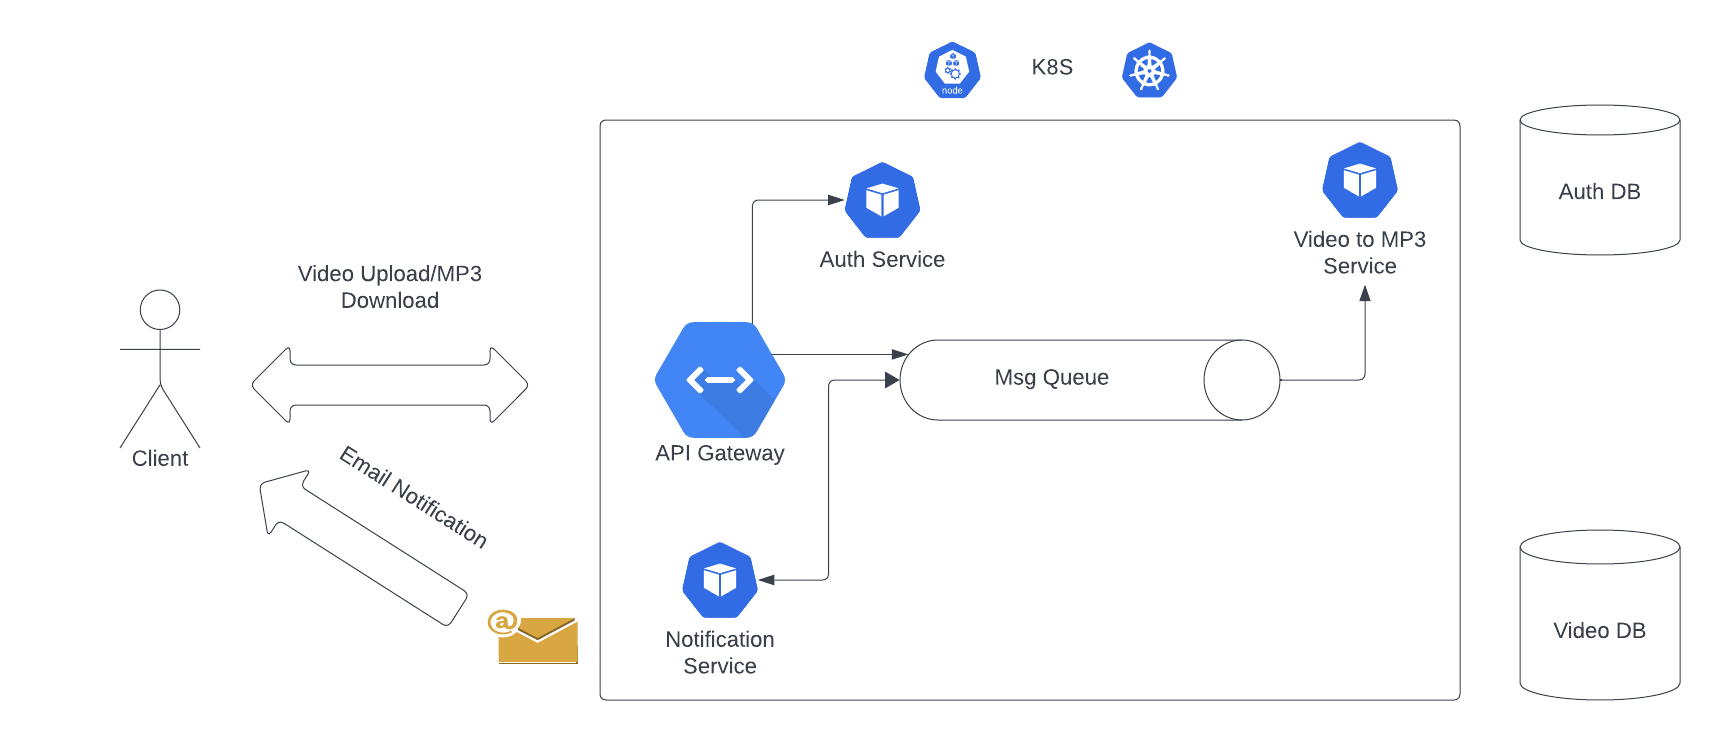
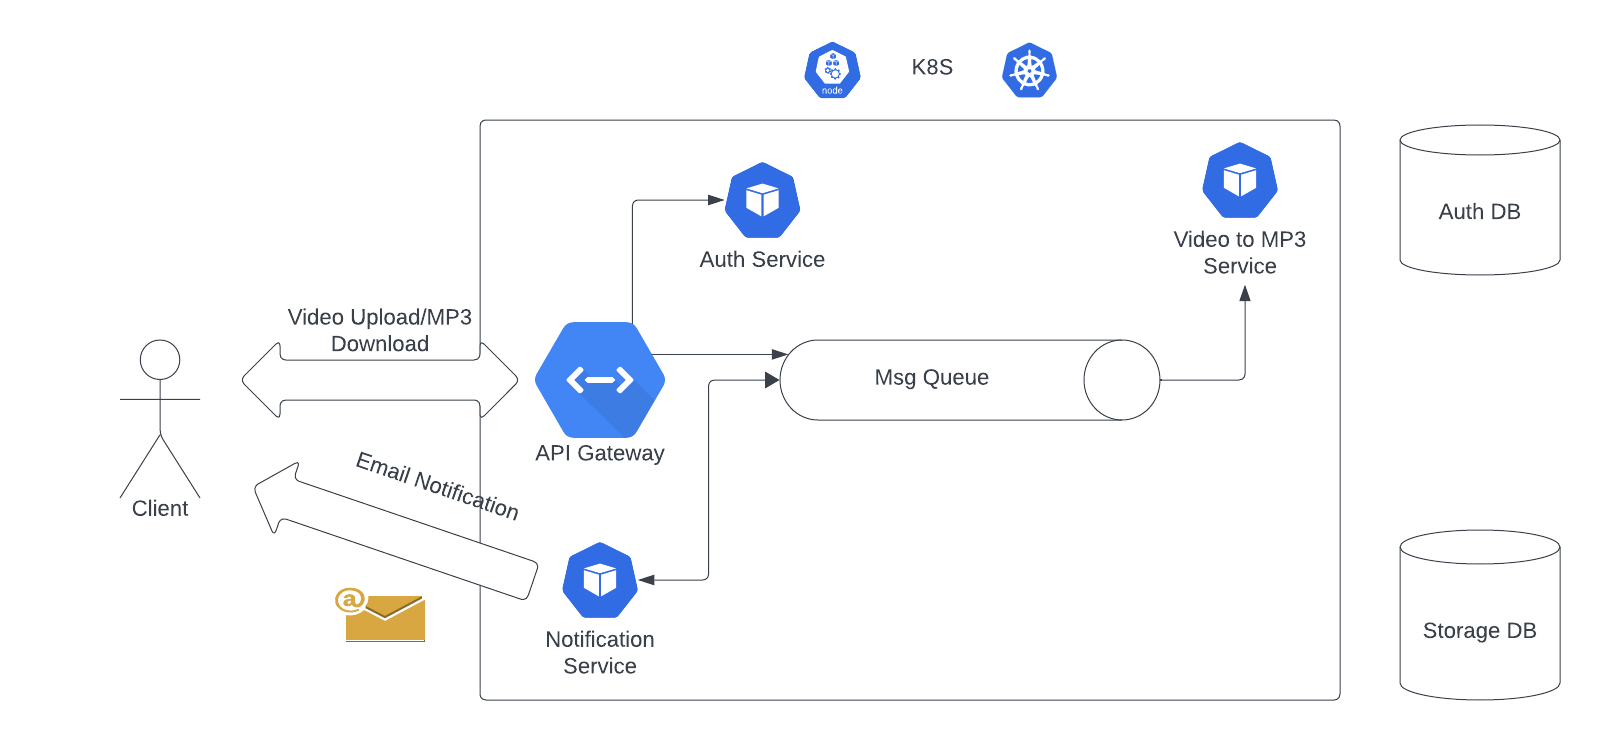
README Update

diff --git a/README.md b/README.md
@@ -3,6 +3,21 @@ App that converts video to an MP3 file and stores it in a database.
 
 ## System design
 
-Below is a diagram depcicting complete microservice-based architecture which will process user video upload requests and will allow to download MP3 files.
+Below is a diagram depcicting complete microservice-based architecture which will process video upload requests and will allow to download MP3 files.
 
 ![system design](design/video2mp3.png)
+
+### How it works
+
+There are eight components in this system:
+
+* Client
+* API Gateway
+* Notification service
+* Auth Service
+* Video to MP3 service
+* Storage DB
+* Auth DB
+* Message Queue
+
+When a user uploads a video to be converted to an MP3 file, the request goes to API Gateway. The gateway sends the video file to the Video database (MongoDB). The Gateway also puts a message in a queue (RabbitMQ) to notify the downstream service that there is a video to be converted. The Video to MP3 service will consume the message from the queue. It will then get the ID of the video from the message, pull the video from the DB, convert the video to MP3, and store the MP3 file in the DB. The sevice then puts a new message in the queue to be consumed by the notification service to let the user know that the conversion job has finished. After reading the message, the notification service sends an email to the client with an MP3 ID. Client then uses the ID in combination with their JWT token to submit a request to API Gateway to download the file. Finally, the API Gateway will pull the file from MongoDB database and serve it to the client.
